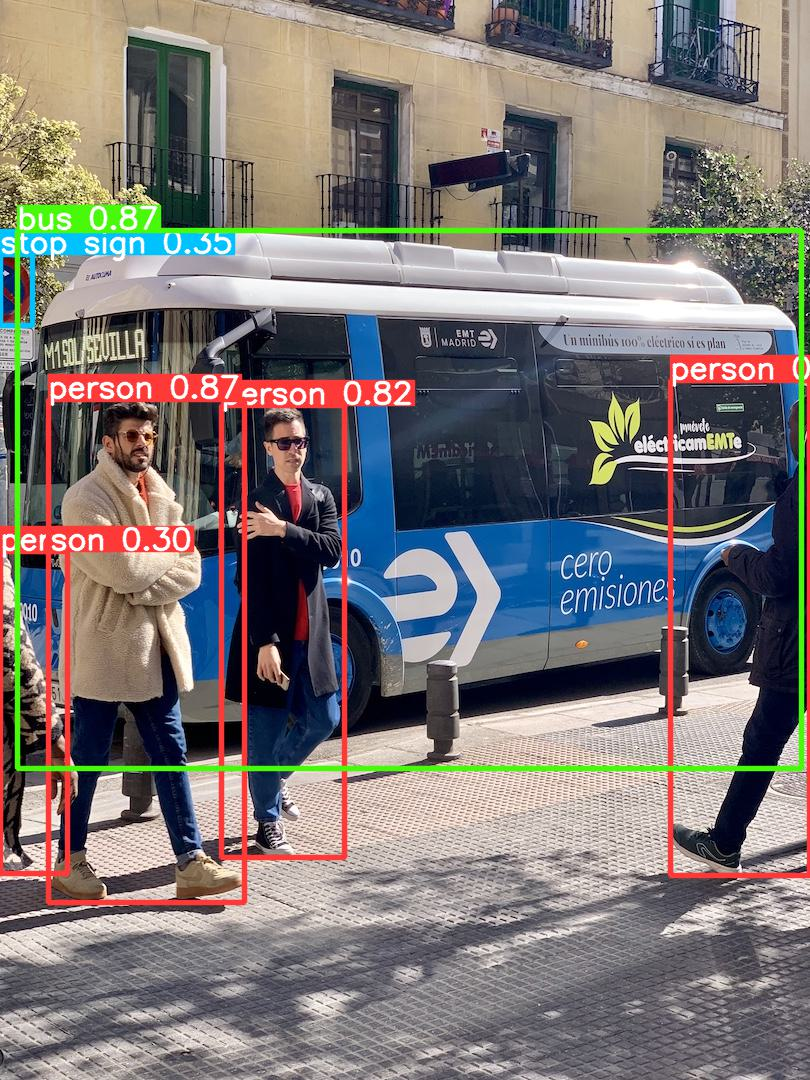
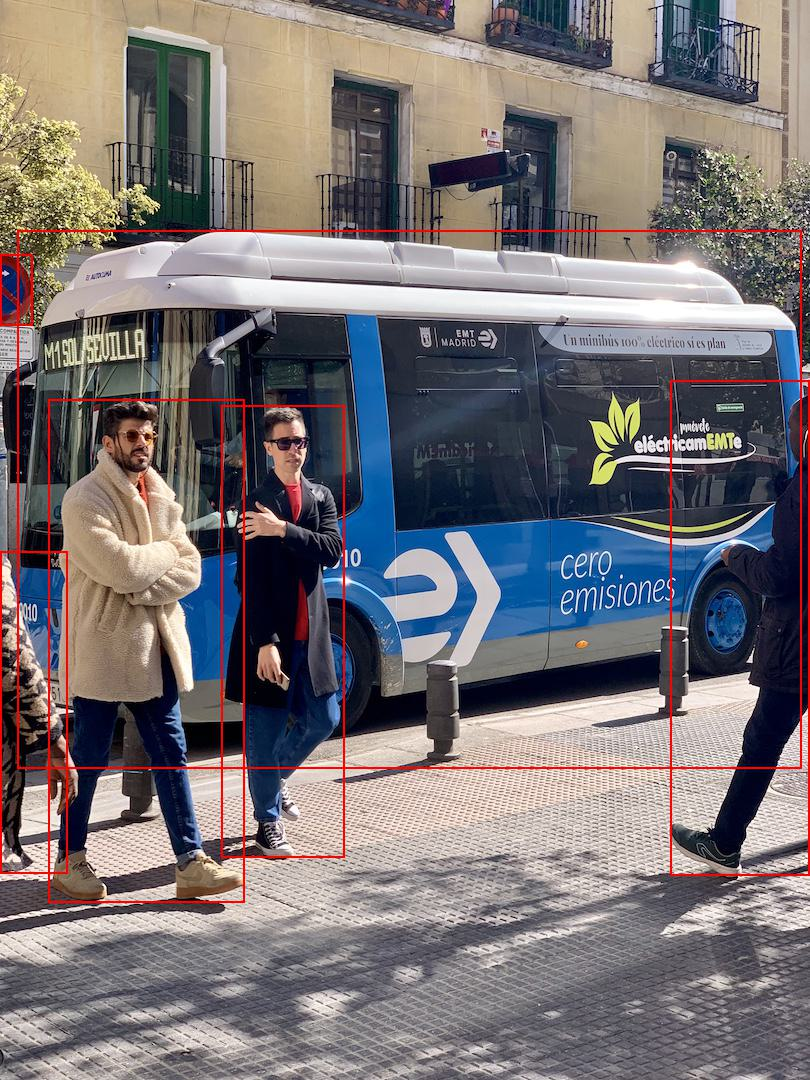
Added Figure Instructions

Changed region(s): [[0.0, 0.1833, 1.0, 0.8556]]

diff --git a/README.md b/README.md
@@ -8,6 +8,12 @@ All packages and required dependencies are included in the provided yml environm
 
 [Installation Instructions](install.md)
 
+# Figure Generation
+
+All figure that are used in any of our write-ups/final results can be generated by you! All our code and documentation can be found in the figure_instructions jupyter notebook. This gives anyone the ability to reproduce our results and verify their accuracy.
+
+[Figure Instructions](figure_instructions.ipynb)
+
 ## Authors
 
 - Matthew Roberts
